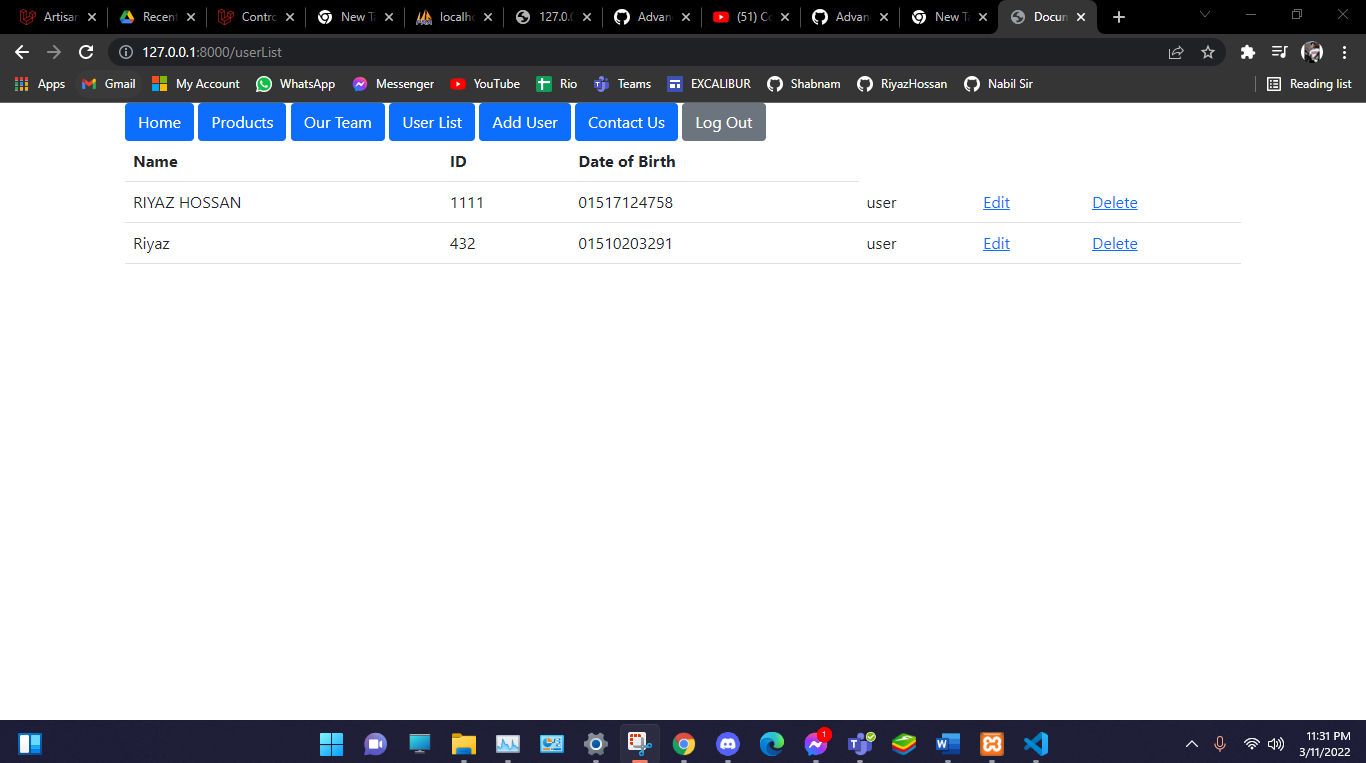
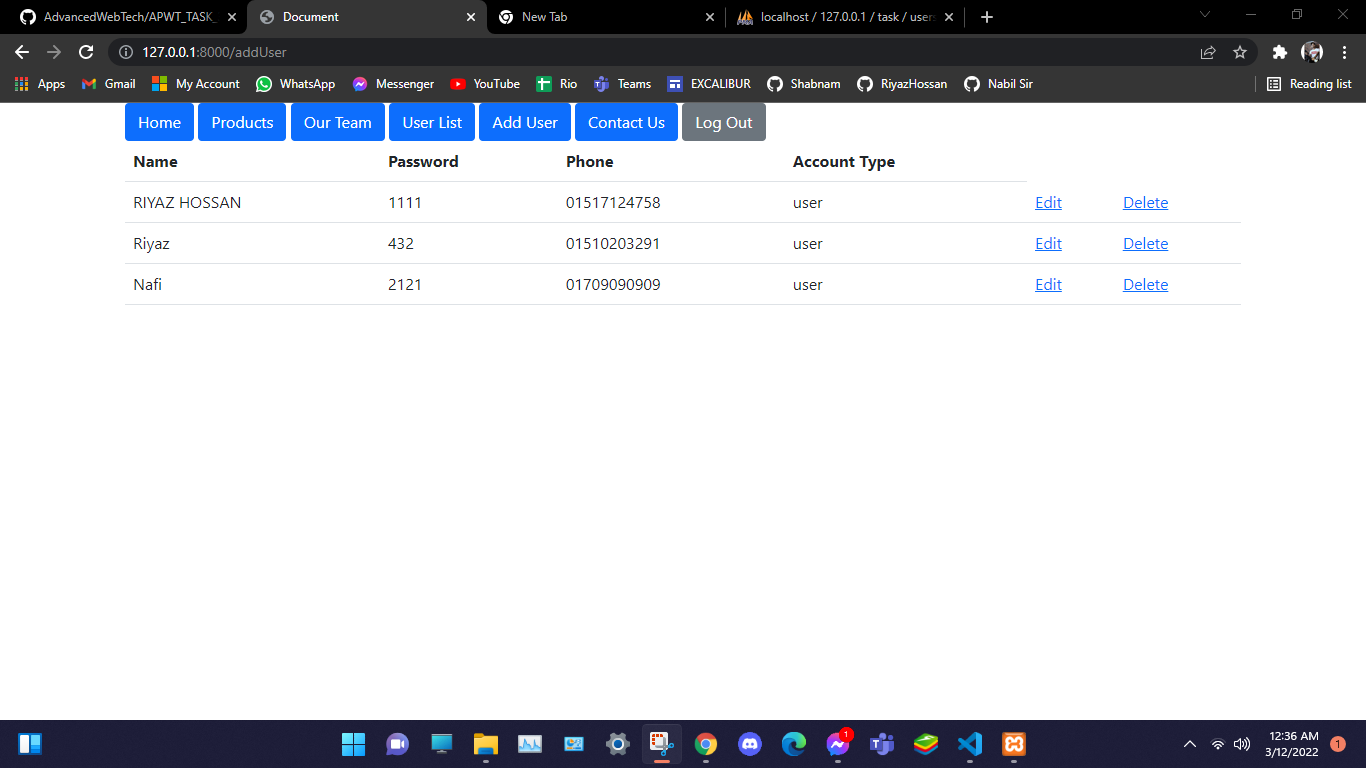
TASK_3

diff --git a/APWT_TASK_3/resources/views/admin/list.blade.php b/APWT_TASK_3/resources/views/admin/list.blade.php
@@ -3,8 +3,9 @@
     <table class = "table table-border">
         <tr>
             <th>Name</th>
-            <th>ID</th>
-            <th>Date of Birth</th>
+            <th>Password</th>
+            <th>Phone</th>
+            <th>Account Type</th>
         </tr>
         @foreach($users as $user)
         <tr>
